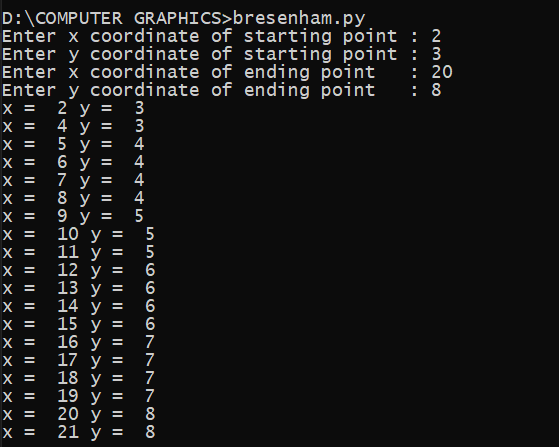
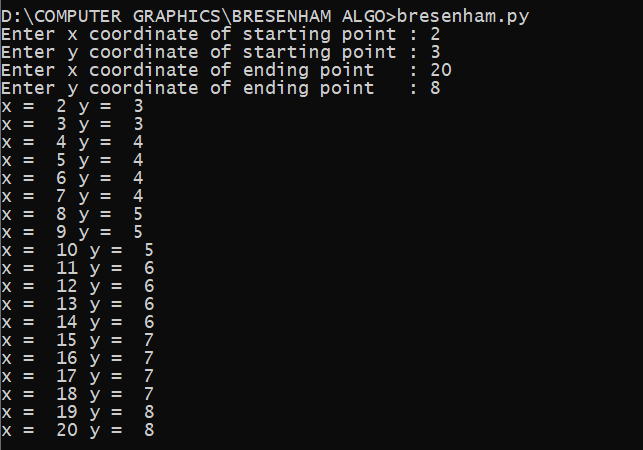
Add Bresenham Algo

Changed region(s): [[0.0, 0.0, 0.8211, 0.9888]]

diff --git a/BRESENHAM ALGO/bresenham.py b/BRESENHAM ALGO/bresenham.py
@@ -19,7 +19,7 @@ def bresenham(x1,y1,x2,y2):
 				p_y=p_y+(2*dy)
 				Y.append(y)
 			x=x+1
-			X.append(x+1)
+			X.append(x)
 	else:
 		while y<y2:
 			if p_x>=0:
@@ -30,11 +30,11 @@ def bresenham(x1,y1,x2,y2):
 				p_x=p_x+(2*dx)
 				X.append(x)
 			y=y+1
-			Y.append(y+1)
+			Y.append(y)
 	for i in range(len(X)):
 		print('x = ', X[i],'y = ', Y[i])
 	plt.scatter(X,Y)
-	#plt.plot(X,Y)
+	plt.plot(X,Y)
 	plt.show()
 
 x1=int(input("Enter x coordinate of starting point : "))
